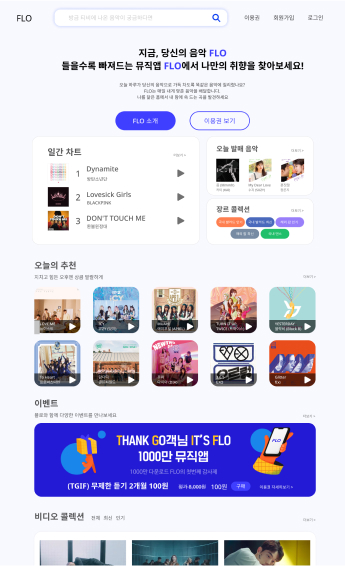
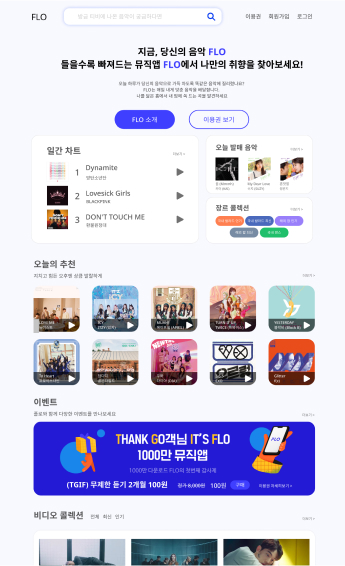
포트폴리오

diff --git a/flo.html b/flo.html
@@ -1,0 +1,93 @@
+<!DOCTYPE html>
+<html lang="ko">
+  <head>
+    <meta charset="UTF-8" />
+    <meta name="viewport" content="width=device-width, initial-scale=1.0" />
+    <title>음원 사이트 FLO</title>
+    <link rel="stylesheet" href="./css/common.css" />
+    <link rel="stylesheet" href="./js/magnific-popup.css" />
+    <link
+      rel="stylesheet"
+      href="//cdn.jsdelivr.net/npm/xeicon@2.3.3/xeicon.min.css"
+    />
+    <script src="https://unpkg.com/isotope-layout@3/dist/isotope.pkgd.min.js"></script>
+    <script src="https://unpkg.com/imagesloaded@4/imagesloaded.pkgd.min.js"></script>
+    <script src="https://code.jquery.com/jquery-3.5.1.min.js"></script>
+    <script src="./js/jquery.magnific-popup.min.js"></script>
+    <script src="//cdn.jsdelivr.net/npm/slick-carousel@1.8.1/slick/slick.min.js"></script>
+    <script src="./js/common.js"></script>
+    <link rel="stylesheet" href="./css/main.css" />
+    <link rel="stylesheet" href="./css/Publishing.css" />
+    <link rel="stylesheet" href="./css/royalpalace.css" />
+    <link rel="stylesheet" href="./css/fullpage.css" />
+  </head>
+  <body>
+    <!-- 헤더 -->
+    <div class="header">
+      <div class="header_nav">
+        <a href="index.html" class="logo_img"
+          ><img src="./images/logo.png" alt=""
+        /></a>
+        <a href="./contact.html">
+          <div class="hamburger">
+            <span></span>
+            <span></span></div
+        ></a>
+      </div>
+    </div>
+
+    <!-- content  -->
+
+    <div class="body container">
+      <div class="snb_content">
+        <div class="sub_nav">
+          <a href="./royalpalace.html">
+            <h2 class="sub_h2 royalpalace_h2">음원 사이트 FLO</dt></h2></a
+          >
+          <div class="sub_back">
+            <div class="back">
+              <a href="./web.html"
+                ><h4><i class="xi-angle-left-min">Back</i></h4></a
+              >
+            </div>
+            <p>
+              음원 사이트 FLO를 디자인하였습니다. 툴은 Photoshop과 Figma를 사용하였습니다.
+            </p>
+          </div>
+          <div class="img">
+            <img src="./images/wab/web_img04.png" alt="" />
+          </div>
+        </div>
+        <div class="grid sub_gird">
+          <a class="grid-item" href="./images/wab/web_big_04.jpg" title="음원 사이트 FLO"
+            ><img src="./images/wab/web_big_04.jpg" alt="img"
+          /></a>
+        </div>
+      </div>
+    </div>
+
+    <script>
+      // 모달
+      // magnific-Popup
+      $('.grid-item').magnificPopup({
+        type: 'image',
+        closeOnContentClick: true,
+        image: {
+          verticalFit: false
+        }
+      })
+
+      // 모달
+      $('.popup-modal').magnificPopup({
+        type: 'inline',
+        preloader: false,
+        focus: '#username',
+        modal: true
+      })
+      $(document).on('click', '.popup-modal-dismiss', function (e) {
+        e.preventDefault()
+        $.magnificPopup.close()
+      })
+    </script>
+  </body>
+</html>

diff --git a/tousjours.html b/tousjours.html
@@ -51,8 +51,9 @@
               >
             </div>
             <p>
-              경복궁 웹페이지를 디자인하였습니다. 색깔은 단청 색을 참고하여
-              사용했습니다. 툴은 Photoshop과 Figma를 사용하였습니다.
+              베이커리 브랜드 뚜레쥬르를 간단히 소개하는 페이지를 만들었습니다.
+              jquery로 애니메이션 효과를 주었고, Media query를 사용하여 반응형
+              웹을 구현하였습니다.
             </p>
           </div>
           <div class="img">

diff --git a/royalpalace.html b/royalpalace.html
@@ -50,8 +50,9 @@
               >
             </div>
             <p>
-              경복궁 웹페이지를 디자인하였습니다. 색깔은 단청 색을 참고하여
-              사용했습니다. 툴은 Photoshop과 Figma를 사용하였습니다.
+              기존 경복궁 웹페이지를 리뉴얼 하여 디자인해보았습니다. 전체적인
+              색은 단청 무늬 색을 참고하여 사용하였습니다. 툴은 Photoshop과
+              Figma를 사용하였습니다.
             </p>
           </div>
           <div class="img">

diff --git a/fullpage_bbh.html b/fullpage_bbh.html
@@ -51,8 +51,9 @@
               >
             </div>
             <p>
-              가수 엑소 백현의 소개 웹페이지를 풀페이지로 디자인 하였습니다. 색
-              툴은 Photoshop과 Figma를 사용하였습니다.
+              가수 엑소 백현의 소개 웹페이지를 FullPage 플러그인을 활용하여 한
+              장면씩 넘어가는 효과를 주어 디자인 하였습니다. 툴은 Figma를
+              사용하였습니다.
             </p>
           </div>
           <div class="img">

diff --git a/publishing.html b/publishing.html
@@ -96,8 +96,8 @@
             <dl>
               <dt class="dt">엑소 백현 소개 웹페이지</dt>
               <dd>
-                가수 엑소 백현의 소개 페이지를 풀페이지 디자인하여 퍼블리싱
-                해보았습니다.
+                가수 엑소 백현의 소개 페이지를 FullPage 플러그인을 활용하여
+                퍼블리싱 해보았습니다.
               </dd>
               <dd>
                 <a

diff --git a/web.html b/web.html
@@ -121,12 +121,7 @@
             <dl class="card_03">
               <dt>음원 사이트<br />FLO</dt>
               <dd>
-                <a
-                  class="grid-item"
-                  href="./royalpalace.html"
-                  title="이미지 퍼블리싱"
-                  >자세히보기</a
-                >
+                <a class="grid-item" href="./flo.html">자세히보기</a>
               </dd>
             </dl>
           </li>

diff --git a/css/fullpage.css b/css/fullpage.css
@@ -1,4 +1,3 @@
 .sub_nav .img img {
-  width: 994px;
-  height: 547px;
+  width: 1000px;
 }
